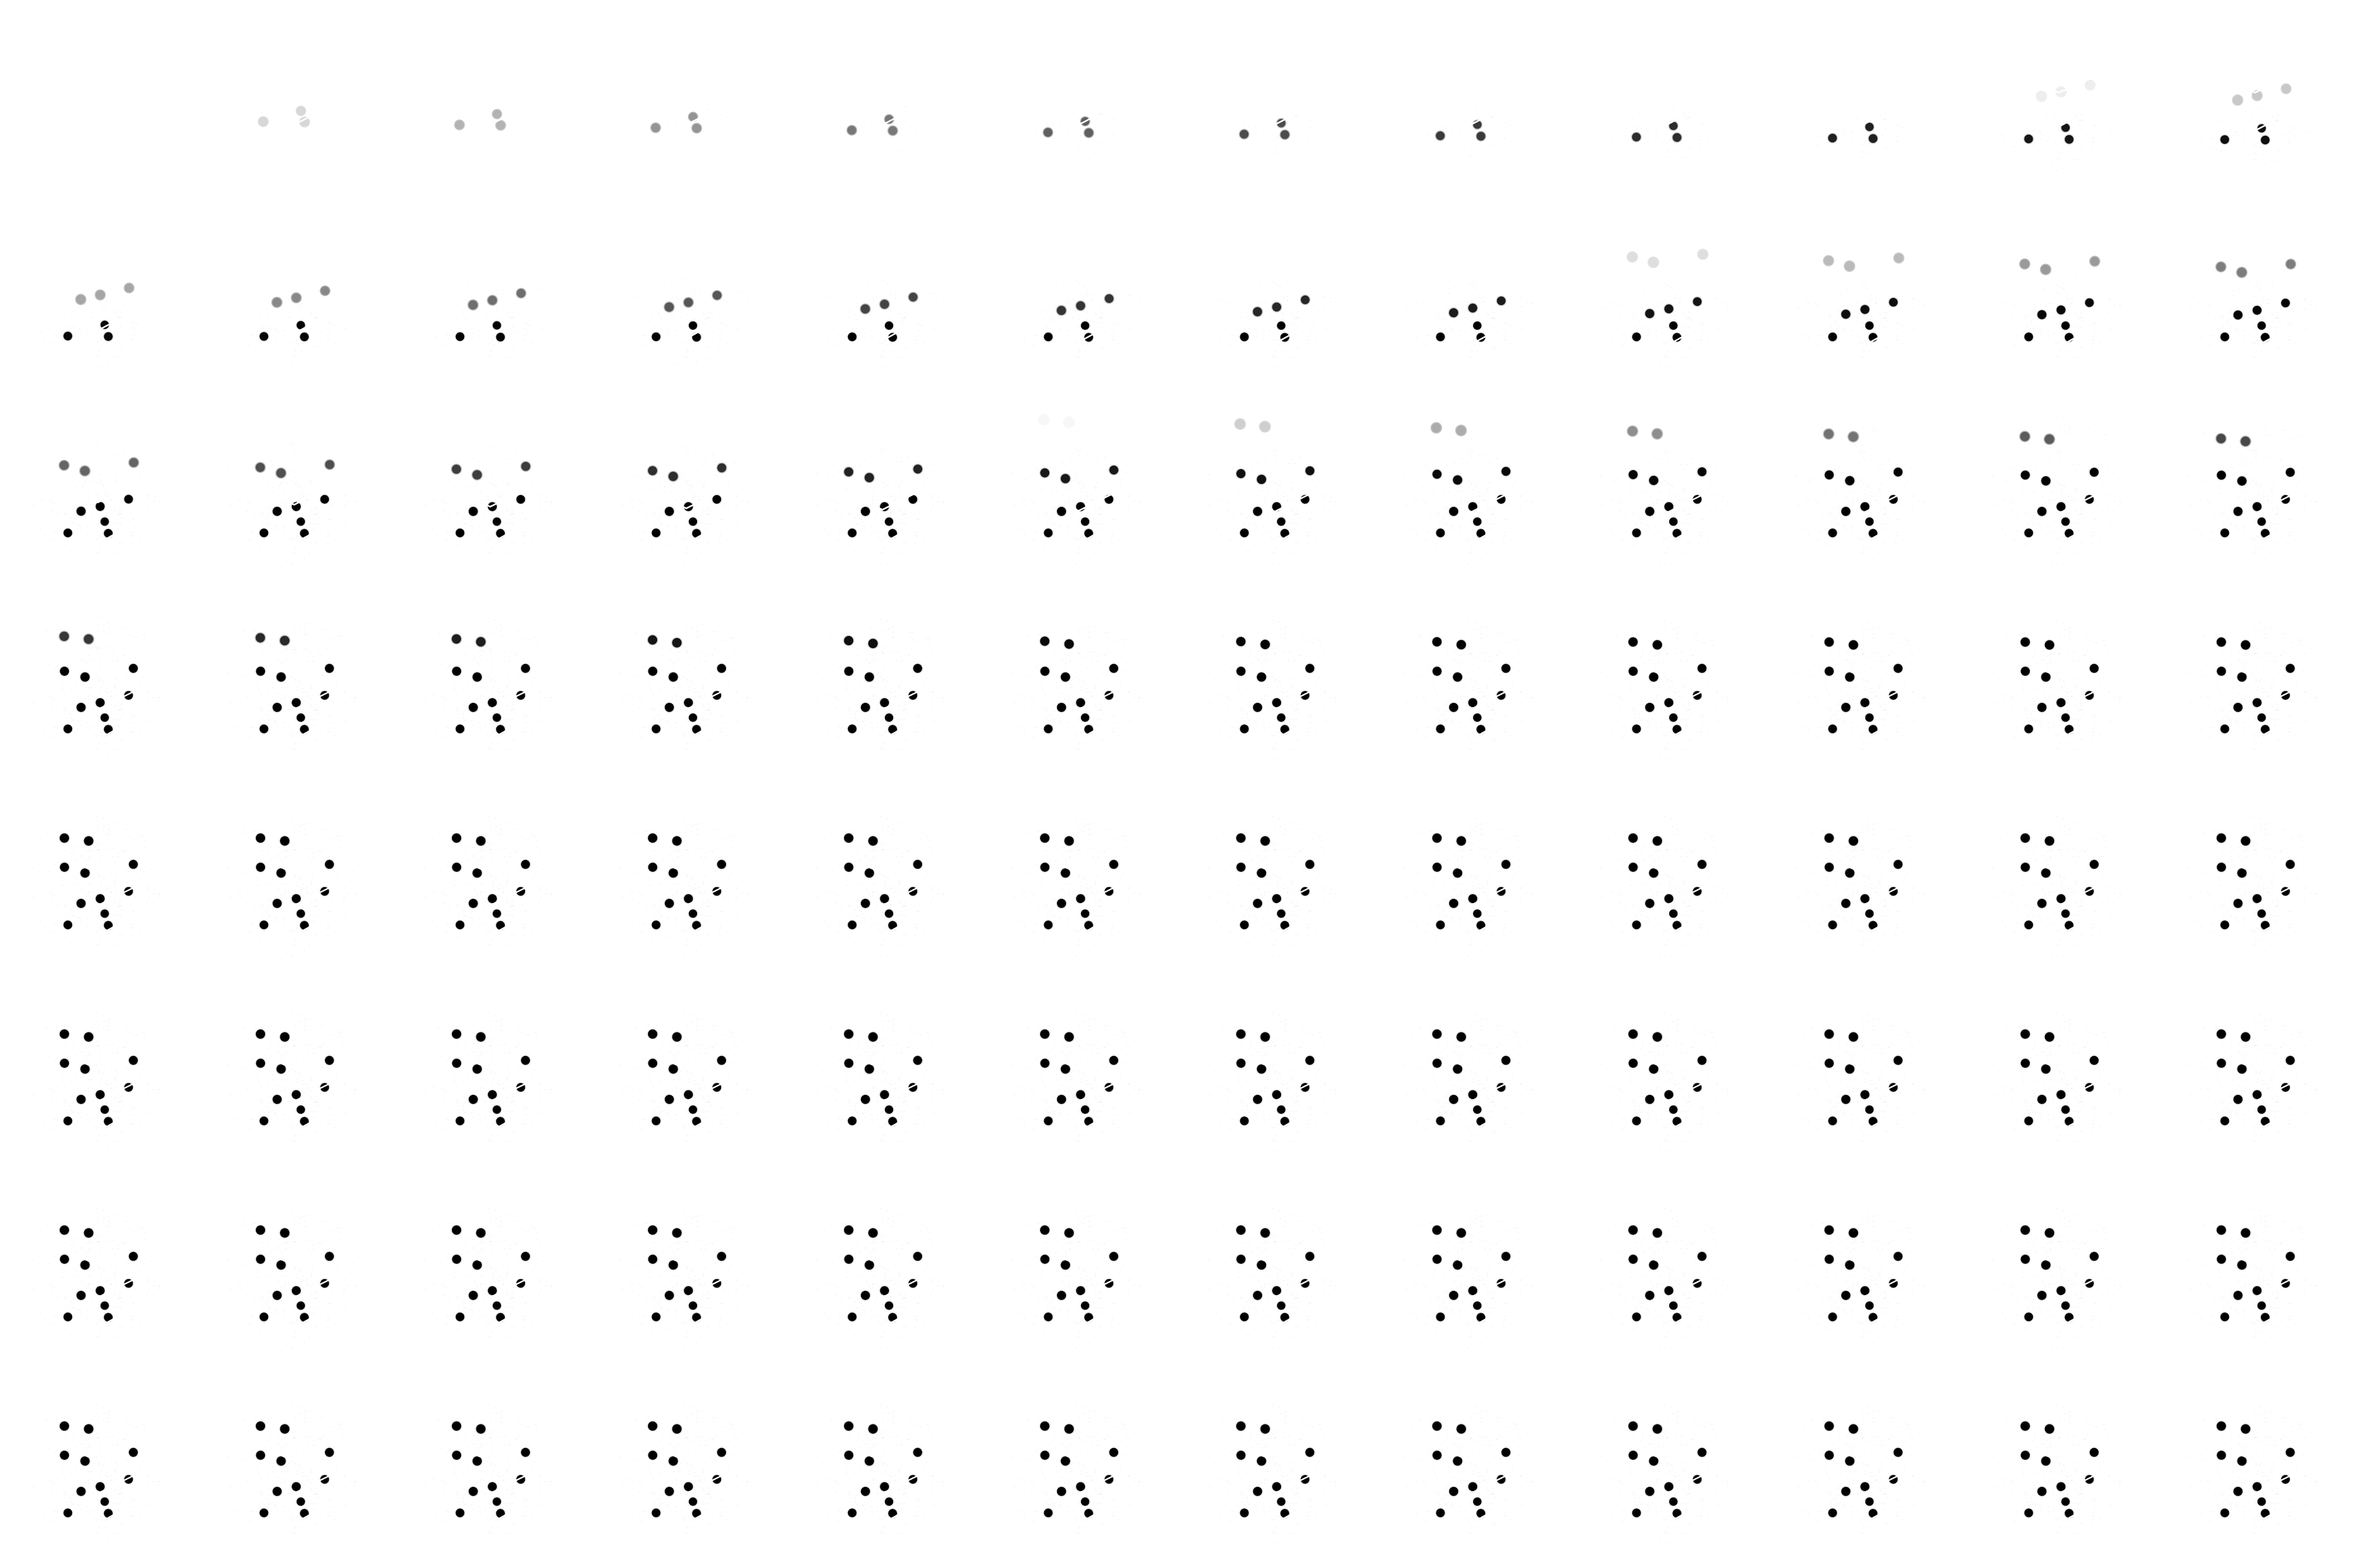
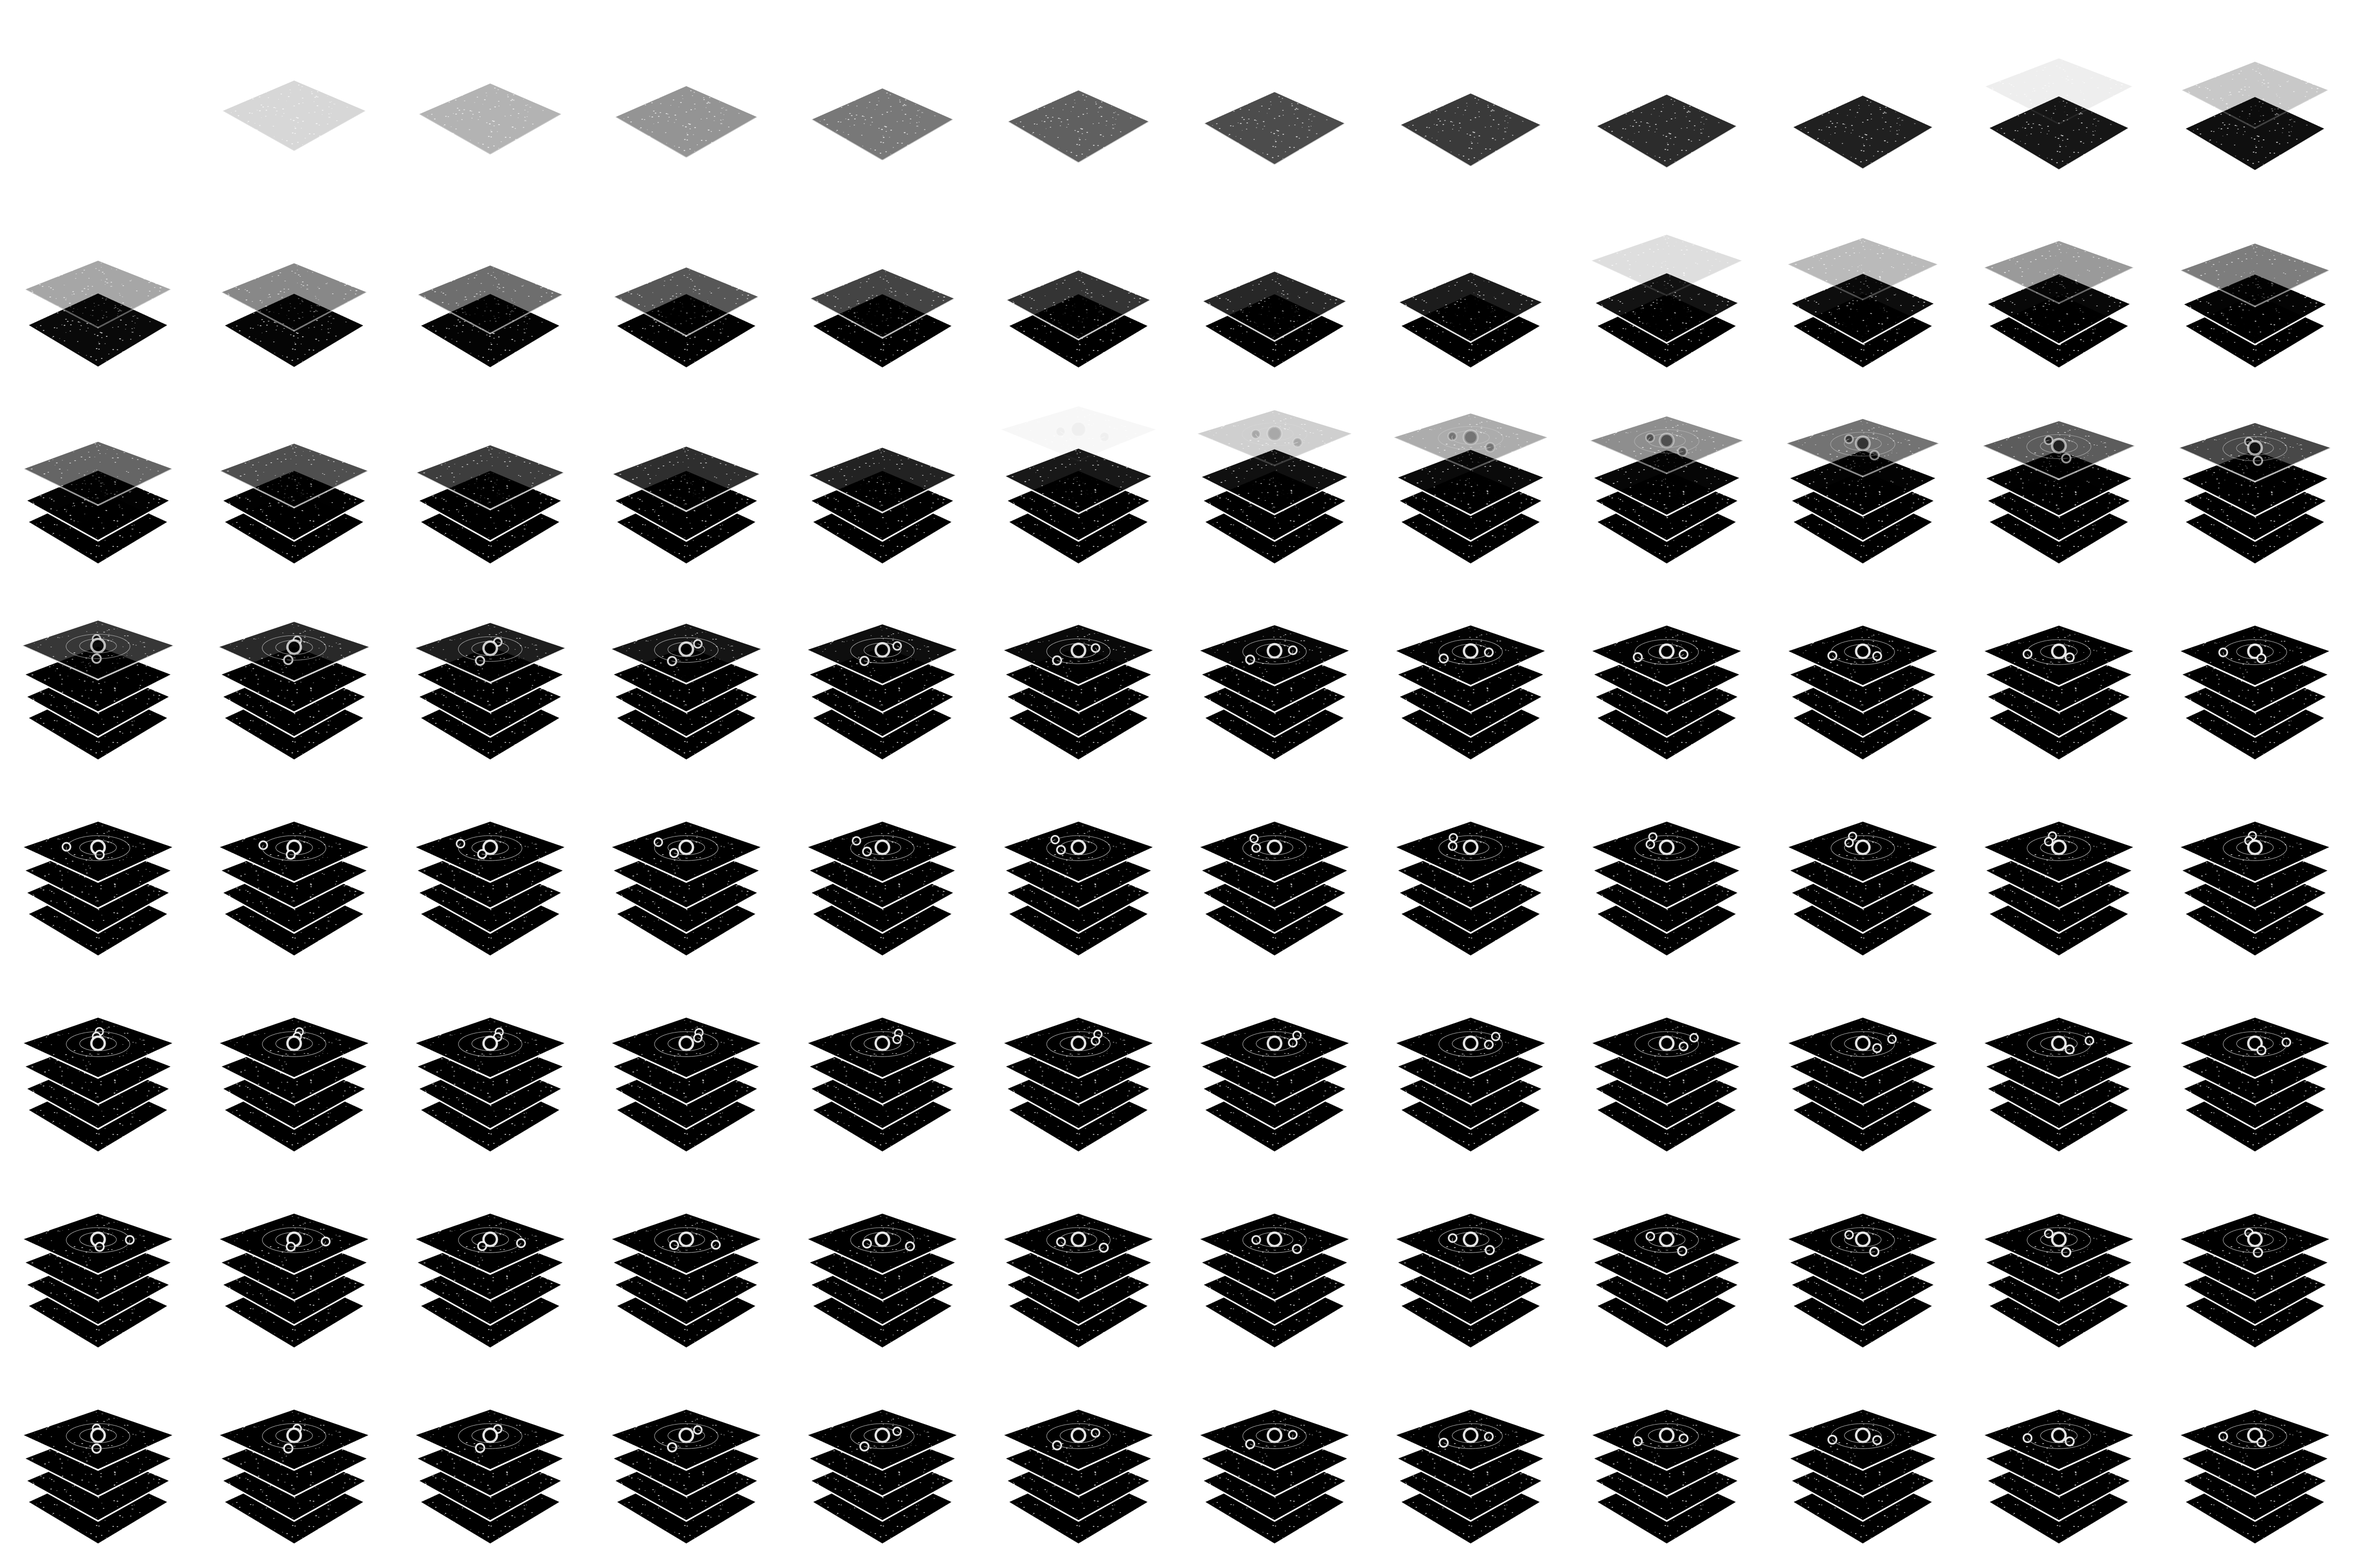
Enhance loading animation and orbiting planets in bake-loader and LoadingScreen
- Updated bake-loader.mjs to introduce a seamless orbit loop for planets, improving visual continuity.
- Added LOOP_START constant to define the start of the orbit loop, ensuring synchronization with the loading screen.
- Modified LoadingScreen.jsx to loop the orbit segment after the initial build, maintaining dynamic planet movement during loading.
- Adjusted layer and planet rendering logic for better visual fidelity and performance.

diff --git a/src/ui/LoadingScreen.jsx b/src/ui/LoadingScreen.jsx
@@ -9,6 +9,8 @@ const FRAME = 384
 const FRAMES = 96
 const COLS = 12
 const FPS = 30
+/* Frames [LOOP_START, FRAMES) are a seamless orbit loop (matches bake-loader). */
+const LOOP_START = 48
 
 /* Stack build timing — keep in sync with bake-loader.mjs animation tuning. */
 const LAYER_COUNT = 4
@@ -154,7 +156,11 @@ export default function LoadingScreen() {
     const tick = (now) => {
       if (!start) start = now
       const elapsed = now - start
-      const frame = Math.min(Math.floor((elapsed / 1000) * FPS), FRAMES - 1)
+      // Play the build once, then loop the orbit segment so the planets keep
+      // orbiting for as long as the loading screen is up.
+      const raw = Math.floor((elapsed / 1000) * FPS)
+      const frame =
+        raw < FRAMES ? raw : LOOP_START + ((raw - FRAMES) % (FRAMES - LOOP_START))
       drawFrame(frame)
 
       if (!stackDoneRef.current && elapsed >= STACK_BUILD_MS) {
@@ -162,7 +168,7 @@ export default function LoadingScreen() {
         setStackComplete(true)
       }
 
-      if (frame < FRAMES - 1) raf = requestAnimationFrame(tick)
+      raf = requestAnimationFrame(tick)
     }
 
     img.onload = () => {
